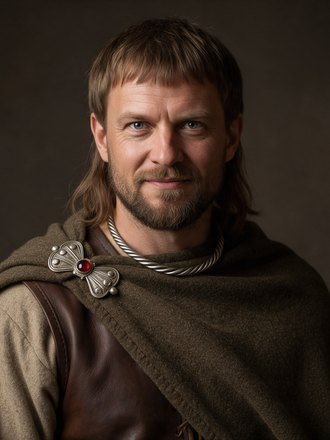
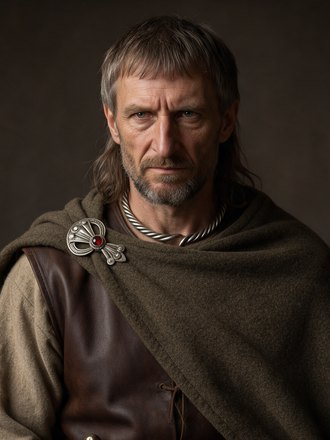
Fritigerno rifatto con un volto diverso da Alarico; ritratti ricostruiti confrontati con le immagini dei musei (Grande Ludovisi, missorio di Teodosio, dittico di Stilicone, San Vitale, lamina di Agilulfo, dinaro del califfo in piedi, monete di Hormizd II, scrigno Franks): nessuno da rifare; Ine a Ro

diff --git a/index.html b/index.html
@@ -22,11 +22,11 @@
 <link rel="preconnect" href="https://fonts.googleapis.com">
 <link rel="preconnect" href="https://fonts.gstatic.com" crossorigin>
 <link href="https://fonts.googleapis.com/css2?family=Cinzel:wght@500;600;700&family=EB+Garamond:ital,wght@0,400;0,500;0,600;1,400&display=swap" rel="stylesheet">
-<link rel="stylesheet" href="css/stile.css?v=20261123-0053">
-<link rel="stylesheet" href="css/carta.css?v=20261123-0053">
-<link rel="stylesheet" href="css/cause.css?v=20261123-0053">
-<link rel="stylesheet" href="css/atti.css?v=20261123-0053">
-<link rel="stylesheet" href="css/ritratti.css?v=20261123-0053">
+<link rel="stylesheet" href="css/stile.css?v=20261123-0057">
+<link rel="stylesheet" href="css/carta.css?v=20261123-0057">
+<link rel="stylesheet" href="css/cause.css?v=20261123-0057">
+<link rel="stylesheet" href="css/atti.css?v=20261123-0057">
+<link rel="stylesheet" href="css/ritratti.css?v=20261123-0057">
 </head>
 <body>
 <header class="testata">
@@ -167,31 +167,31 @@
   <p class="etichetta">Come è fatta questa pagina</p>
   <p>Ricostruzioni schematiche. La carta parte dalle province romane intorno al 200 d.C. e, per l'Italia, dalle regioni istituite da Augusto. La base è il Digital Atlas of the Roman Empire di Johan Åhlfeldt (università di Lund e di Göteborg), con licenza Creative Commons Attribuzione - Condividi allo stesso modo (CC BY-SA). Coste, rilievi e fiumi provengono dai dati di pubblico dominio di Natural Earth. Dove i regni successivi seguivano confini diversi, li abbiamo ridisegnati a mano usando i fiumi, i crinali e le città citati nelle fonti. Questi confini sono quindi indicativi, non rilevati. Nel novembre 2026 abbiamo rivisto il controllo delle regioni, i confini e gli spostamenti dei popoli sulla base di Bury, Ammiano, Zosimo, Eugippio e Beda e, per i confini dei singoli regni, delle relative voci di Wikipedia. Una parte delle date resta citata a memoria. Il dominio longobardo in Corsica dal 725 circa è, inoltre, un'ipotesi dei manuali priva di una testimonianza diretta; il dominio franco è documentato dall'806. Per Roma, il corso del Tevere e il tracciato delle mura provengono da OpenStreetMap (© OpenStreetMap contributors). Abbiamo ridisegnato i colli alle quote antiche sopra un rilievo misurato (SRTM) e nel modello ne abbiamo quasi raddoppiato l'altezza. Gli edifici sono al loro posto, ma schematici. Le strade seguono i tracciati antichi conservati nelle vie moderne, come via del Corso per la via Lata, l'Appia Antica e via dei Coronari. Nel Foro seguono anche le pavimentazioni antiche ancora visibili della via Sacra, dell'Argileto, del vico Tusco e del clivo Capitolino. I tratti mancanti sono disegnati a mano. Nel Foro romano e nei Fori imperiali gli edifici sono centrati sui resti archeologici. Per gli acquedotti abbiamo ricostruito percorsi e altezze, che non sono rilevati. Gli isolati sono generati dal modello e lo spopolamento dei singoli quartieri è ipotetico. L'indicatore «Occidente governato da Roma» usa le superfici misurate su questa carta. L'intero Occidente vi occupa circa 2,7 milioni di km². Per l'impero nel suo insieme, i risultati sono vicini alle stime pubblicate nel 1979 da Rein Taagepera usando l'atlante storico di Shepherd. Le province dell'atlante di Åhlfeldt coprono 4,9 milioni di km² intorno al 200, oppure 4,5 milioni escludendo Mesopotamia, Dacia e Agri Decumates. Taagepera stima 4,6 milioni per il 138, 4,5 per il 275 e 4,4 per il 390. Per la divisione del 395, invece, il confronto non torna. Taagepera parla di «due parti pressoché uguali» e assegna 2 milioni all'Occidente e 2,1 milioni all'Oriente, con un margine di 0,3 milioni per quest'ultimo. La somma è 4,1 milioni, mentre la sua stima complessiva per il 390 è 4,4. Le sue due metà sono arrotondate: sulla nostra carta l'Occidente misura 2,7 milioni di km², circa un terzo in più, e l'Oriente 1,9 milioni. Nel grafico la linea continua indica un dato misurato e quella tratteggiata una stima. I testi delle tappe, le schede dei monumenti e le didascalie degli eventi sono stati controllati sulle fonti nel novembre 2026. Le schede segnalano ciò che resta incerto o discusso.</p>
   <p class="licenze" id="licenze">Il codice si può riutilizzare secondo la licenza MIT. Per riutilizzare testi, schede, confini della carta e tabelle dei dati occorre citare la fonte e distribuire gli adattamenti con la stessa licenza (CC BY-SA 4.0). I dati topografici di Roma sono © OpenStreetMap contributors, licenza ODbL. Le immagini dei protagonisti vengono da Wikimedia Commons: autore e licenza sono indicati accanto a ciascuna. Quelle segnate «Ricostruzione» sono state generate per questa pagina a partire dalle fonti: il volto è immaginario. Le didascalie seguono le descrizioni dei file su Commons e non sono state riscontrate sulle schede dei musei. I dettagli sono nel file <a href="https://github.com/angrisanidj/caduta-impero/blob/main/LICENZA.md">LICENZA.md</a>.</p>
-                                                                        <p class="versione">Versione del 23/11/2026, ore 00:53</p>
+                                                                          <p class="versione">Versione del 23/11/2026, ore 00:57</p>
 </footer>
 
 <script src="https://cdnjs.cloudflare.com/ajax/libs/three.js/r128/three.min.js"></script>
 <script src="https://cdn.jsdelivr.net/npm/three@0.128.0/examples/js/controls/OrbitControls.js"></script>
-<script src="js/dati.js?v=20261123-0053"></script>
-<script src="js/mappa-dati.js?v=20261123-0053"></script>
-<script src="js/roma-topo.js?v=20261123-0053"></script>
-<script src="js/base.js?v=20261123-0053"></script>
-<script src="js/costruttore.js?v=20261123-0053"></script>
-<script src="js/monumenti.js?v=20261123-0053"></script>
-<script src="js/nuclei.js?v=20261123-0053"></script>
-<script src="js/mura.js?v=20261123-0053"></script>
-<script src="js/citta.js?v=20261123-0053"></script>
-<script src="js/vita.js?v=20261123-0053"></script>
-<script src="js/eventi.js?v=20261123-0053"></script>
-<script src="js/mappa.js?v=20261123-0053"></script>
-<script src="js/ritratti.js?v=20261123-0053"></script>
-<script src="js/protagonisti.js?v=20261123-0053"></script>
-<script src="js/pagina.js?v=20261123-0053"></script>
-<script src="js/scene-tappe.js?v=20261123-0053"></script>
-<script src="js/atti.js?v=20261123-0053"></script>
-<script src="js/itinerario.js?v=20261123-0053"></script>
-<script src="js/confronto.js?v=20261123-0053"></script>
-<script src="js/cause.js?v=20261123-0053"></script>
-<script src="js/condividi.js?v=20261123-0053"></script>
+<script src="js/dati.js?v=20261123-0057"></script>
+<script src="js/mappa-dati.js?v=20261123-0057"></script>
+<script src="js/roma-topo.js?v=20261123-0057"></script>
+<script src="js/base.js?v=20261123-0057"></script>
+<script src="js/costruttore.js?v=20261123-0057"></script>
+<script src="js/monumenti.js?v=20261123-0057"></script>
+<script src="js/nuclei.js?v=20261123-0057"></script>
+<script src="js/mura.js?v=20261123-0057"></script>
+<script src="js/citta.js?v=20261123-0057"></script>
+<script src="js/vita.js?v=20261123-0057"></script>
+<script src="js/eventi.js?v=20261123-0057"></script>
+<script src="js/mappa.js?v=20261123-0057"></script>
+<script src="js/ritratti.js?v=20261123-0057"></script>
+<script src="js/protagonisti.js?v=20261123-0057"></script>
+<script src="js/pagina.js?v=20261123-0057"></script>
+<script src="js/scene-tappe.js?v=20261123-0057"></script>
+<script src="js/atti.js?v=20261123-0057"></script>
+<script src="js/itinerario.js?v=20261123-0057"></script>
+<script src="js/confronto.js?v=20261123-0057"></script>
+<script src="js/cause.js?v=20261123-0057"></script>
+<script src="js/condividi.js?v=20261123-0057"></script>
 </body>
 </html>

diff --git a/js/dati.js b/js/dati.js
@@ -789,7 +789,7 @@ var SCHEDE={
   obeliscovaticano:{cosa:"Obelisco egizio senza geroglifici. Caligola lo fece portare a Roma e sistemare sul divisorio centrale del suo circo, noto come circo di Nerone.", date:[[40,"Caligola lo fa portare da Alessandria e lo colloca nel circo; in origine veniva da Eliopoli, secondo Plinio."],[333,"Il circo è ormai una necropoli; l'obelisco resta in piedi accanto alla basilica nuova, presso la rotonda di Sant'Andrea. Ci resterà fino al 1586, quando lo si porta al centro di piazza San Pietro."]]},
   campanilepietro:{cosa:"La torre delle campane all'ingresso dell'atrio di San Pietro: a Roma è la prima di cui parli una fonte.", date:[[757,"Il Liber Pontificalis attribuisce a papa Stefano II (752-757) la costruzione «sopra la basilica» di una torre in parte dorata e in parte rivestita d'argento. Vi colloca tre campane «per chiamare il clero e il popolo all'ufficio di Dio», cioè alla preghiera. Il passo manca in una parte dei manoscritti."],["dopo il 757","La stessa fonte nomina poco dopo, all'ingresso dell'atrio, la torre di Santa Maria «ad Grada», cioè ai gradini."]]},
   porticopietro:{cosa:"Un passaggio coperto permetteva ai pellegrini di raggiungere a piedi la basilica di San Pietro partendo dal ponte Elio, oggi ponte Sant'Angelo. Sulla carta attuale il ponte dista poco meno di un chilometro dalla scalinata della basilica. La lunghezza esatta dell'antico portico rimane incerta.", date:[["fine del IV secolo","Il portico risale probabilmente a questo periodo. Altri studiosi ne datano la costruzione intorno all'anno 500."],[537,"Prima notizia sicura: la cita Procopio durante l'assedio."],[780,"Restaurata da papa Adriano I, che ne rifà le fondazioni lungo la riva del Tevere con oltre dodicimila blocchi di tufo."]]},
-  scholae:{cosa:"Ospizio dei pellegrini anglosassoni: alloggio, chiesa e cimitero, verso il fiume, dove oggi è Santo Spirito in Sassia.", date:[[727,"Una tradizione più tarda la attribuisce al re Ine del Wessex, venuto a Roma verso il 726."],[799,"La prima testimonianza sicura della schola riguarda il ritorno di Leone III a Roma. Ad accoglierlo ci sono le comunità dei Sassoni, dei Franchi, dei Frisoni e dei Longobardi. Dalle scholae viene il nome del quartiere, «Borgo», dal germanico burg, che compare nelle fonti durante il pontificato di Pasquale I (817-824)."],[847,"Un incendio brucia le case di Sassoni e Longobardi e arriva al portico della basilica; un altro, sotto Pasquale I, aveva già distrutto il borgo dei Sassoni."]]},
+  scholae:{cosa:"Ospizio dei pellegrini anglosassoni: alloggio, chiesa e cimitero, verso il fiume, dove oggi è Santo Spirito in Sassia.", date:[[727,"Una tradizione più tarda la attribuisce al re Ine del Wessex, venuto a Roma fra il 726 e il 728: dai dati di Beda (trentasette anni di regno) viene il 725-726, la Cronaca anglosassone, nell'edizione di Ingram, dice 728."],[799,"La prima testimonianza sicura della schola riguarda il ritorno di Leone III a Roma. Ad accoglierlo ci sono le comunità dei Sassoni, dei Franchi, dei Frisoni e dei Longobardi. Dalle scholae viene il nome del quartiere, «Borgo», dal germanico burg, che compare nelle fonti durante il pontificato di Pasquale I (817-824)."],[847,"Un incendio brucia le case di Sassoni e Longobardi e arriva al portico della basilica; un altro, sotto Pasquale I, aveva già distrutto il borgo dei Sassoni."]]},
   scholae2:{cosa:"Ciascuna comunità, chiamata schola, offriva ai pellegrini dello stesso popolo un alloggio, una chiesa e un cimitero.", date:[[799,"Prima notizia certa: Franchi, Frisoni e Longobardi, con i Sassoni, accolgono papa Leone III al suo ritorno. Quando siano nate non si sa. Il sito di quella dei Longobardi è discusso."],[847,"L'incendio del Borgo brucia anche le case dei Longobardi."]]},
   leonine:{cosa:"Cinta attorno a San Pietro e al Borgo: circa tre chilometri, con decine di torri, costruita in buona parte con blocchi tolti a edifici antichi.", date:[[846,"Il sacco saraceno mostra che le basiliche fuori le mura sono indifese."],[848,"Papa Leone IV avvia i lavori nel secondo anno di pontificato."],[852,"Cerimonia conclusiva il 27 giugno: nasce la «città leonina»."]]},
   venere:{cosa:"Il tempio più grande di Roma, fra il Foro e il Colosseo.", date:[[307,"Ricostruito da Massenzio dopo un incendio."],[392,"Nella ricostruzione, dal 392 il tempio di Venere e Roma è ancora in piedi, ma al suo interno non si celebrano più riti. La data in cui il culto cessò davvero è incerta."],[630,"Papa Onorio I (625-638), con il permesso dell'imperatore Eraclio, toglie le tegole di bronzo del «tempio di Roma» per coprire San Pietro. Per i più è questo tempio; secondo altri la vicina basilica di Massenzio."],[850,"Papa Leone IV costruisce Santa Maria Nova fra le sue rovine."]]},
@@ -1018,7 +1018,7 @@ var PROTAGONISTI={
  711:[["Tariq ibn Ziyad","","Comandante berbero, attraversa lo stretto di Gibilterra nel 711."],
       ["Musa ibn Nusayr","","Governatore arabo dell'Africa settentrionale, raggiunge Tariq nella penisola iberica nel 712."],
       ["Rodrigo","","L'ultimo re visigoto a regnare da Toledo: scompare nella battaglia."]],
- 727:[["Ine","re del Wessex dal 688 circa al 726","Rinuncia al trono e parte per Roma, dove trascorre il resto della vita."],
+ 727:[["Ine","re del Wessex dal 688 circa al 726 o al 728","Rinuncia al trono e parte per Roma, dove trascorre il resto della vita."],
       ["Gregorio II","papa dal 715 al 731","Romano di nascita: si oppone alle tasse e agli editti dell'imperatore Leone III."],
       ["Liutprando","re dei Longobardi dal 712 al 744","Nel 728 dona al papa il castello di Sutri."]],
  756:[["Astolfo","re dei Longobardi dal 749 al 756","Ha preso Ravenna nel 751; muore nel 756."],

diff --git a/src/immagini/ricostruzioni.md b/src/immagini/ricostruzioni.md
@@ -288,3 +288,18 @@ Negative: le parole comuni, più `curved scimitar, Ottoman turban, Mamluk, henna
 Photorealistic half-length portrait of Ine, king of the West Saxons, in 727 AD as he gives up his throne to travel to Rome as a pilgrim, a grave, weathered man of about 60, grey-blond hair falling to the neck, a full grey beard, calm resolute eyes. He wears a loose long-sleeved tunic of off-white linen with broad tablet-woven bands of red, yellow and dark blue at the neck and cuffs, and a heavy travelling cloak of dark brown wool fastened on the right shoulder with a round gold brooch set with flat red garnets. No crown, no helmet, no weapons. Plain dark charcoal-brown studio backdrop, softly mottled, no objects. Natural side light from the left as from a window. Looks like a photograph of a real person in historically accurate early 8th-century Anglo-Saxon costume, shallow depth of field, 85mm lens.
 ```
 Negative: le parole comuni, più `crown, Sutton Hoo helmet, Viking, horns, fur, scallop shell, pilgrim staff, monk habit, friar`.
+
+## Controllo sulle immagini dei musei (23 novembre 2026, dopo la generazione)
+
+Le immagini degli oggetti citati «a memoria» sono state guardate su Wikimedia Commons e confrontate con i ritratti scelti:
+- Sarcofago Grande Ludovisi («Grande Ludovisi sarcophagus.jpg»): i barbari hanno barba e capelli folti, tuniche e brache. Cniva è coerente; i capelli scolpiti sono più ricci, convenzione dello scultore.
+- Missorio di Teodosio («Missorium van Theodosius I Detail, GD000327.jpg»): le guardie germaniche hanno capelli lunghi fino alla nuca, collare ritorto, nessuna barba. Il collare di Fritigerno e di Alarico torna; la barba è una scelta, come per i Goti di Sinesio e di Sidonio.
+- Dittico di Stilicone («Diptych of Stilicho.jpg»): tunica decorata, clamide con fibula a balestra, cintura con la spada, barba e capelli corti. Corrisponde ad Arbogaste e ad Alarico.
+- Mosaico di Giustiniano a San Vitale: clamide bianca fermata sulla spalla destra, tunica a strisce, capelli corti con la frangia. Corrisponde a Procopio, senza il riquadro di porpora (scelta della scheda: il suo rango nel 542 è incerto).
+- Lamina di Agilulfo: figure troppo piccole per aggiungere dettagli ad Alboino; vale Paolo Diacono.
+- Dinaro del «califfo in piedi» (695): veste lunga, copricapo di stoffa che scende, barba lunga, spada nel fodero. Corrisponde a Musa.
+- Monete di Hormizd II: corona col globo e barba a punta per il re; Ormisda, che re non era, ha il berretto senza corona (scelta della scheda).
+- Scrigno Franks: tuniche al ginocchio, mantelli, cappucci. Corrisponde a Ine.
+Nessun ritratto è stato rifatto per questo controllo. Fritigerno è stato rifatto per un'altra ragione: nella prima generazione aveva quasi lo stesso volto di Alarico.
+
+Ine: Beda (Storia ecclesiastica V 7, letto) non dà l'anno della partenza; dai suoi dati (trentasette anni di regno, cominciati quando Cedvalla parte per Roma nel 688; papa Gregorio II) viene il 725-726. La Cronaca anglosassone, nell'edizione composita di Ingram (avalon.law.yale.edu), lo mette nel 728. In pagina: «dal 688 circa al 726 o al 728».

diff --git a/src/testi/scritte.md b/src/testi/scritte.md
@@ -1,6 +1,6 @@
 # Come finisce un impero · tutte le scritte
 
-Generato da `src/testi.mjs` il 23/11/2026, 00:53:40.
+Generato da `src/testi.mjs` il 23/11/2026, 00:57:25.
 
 **Come correggere.** Ogni scritta sta su una riga e comincia con la sua sigla fra parentesi quadre. Cambia liberamente il testo dopo la sigla; non toccare la sigla e non unire due righe.
 Le citazioni («Voci di allora», citazioni degli storici) sono traduzioni da fonti lette: lì conviene ritoccare solo l'italiano, non il contenuto.
@@ -103,7 +103,7 @@ Se una riga va tolta del tutto, lascia la sigla e scrivi `TOGLIERE`. Per un dubb
 
 [pagina.44] Il codice si può riutilizzare secondo la licenza MIT. Per riutilizzare testi, schede, confini della carta e tabelle dei dati occorre citare la fonte e distribuire gli adattamenti con la stessa licenza (CC BY-SA 4.0). I dati topografici di Roma sono © OpenStreetMap contributors, licenza ODbL. Le immagini dei protagonisti vengono da Wikimedia Commons: autore e licenza sono indicati accanto a ciascuna. Quelle segnate «Ricostruzione» sono state generate per questa pagina a partire dalle fonti: il volto è immaginario. Le didascalie seguono le descrizioni dei file su Commons e non sono state riscontrate sulle schede dei musei. I dettagli sono nel file LICENZA.md .
 
-[pagina.45] Versione del 23/11/2026, ore 00:47
+[pagina.45] Versione del 23/11/2026, ore 00:53
 
 
 ## 2. Gli atti
@@ -1415,7 +1415,7 @@ Se una riga va tolta del tutto, lascia la sigla e scrivi `TOGLIERE`. Per un dubb
 
 [T44-727.chi1.nome] Ine
 
-[T44-727.chi1.date] re del Wessex dal 688 circa al 726
+[T44-727.chi1.date] re del Wessex dal 688 circa al 726 o al 728
 
 [T44-727.chi1.riga] Rinuncia al trono e parte per Roma, dove trascorre il resto della vita.
 
@@ -2513,7 +2513,7 @@ Se una riga va tolta del tutto, lascia la sigla e scrivi `TOGLIERE`. Per un dubb
 
 [scheda.scholae.cosa] Ospizio dei pellegrini anglosassoni: alloggio, chiesa e cimitero, verso il fiume, dove oggi è Santo Spirito in Sassia.
 
-[scheda.scholae.data1-727] Una tradizione più tarda la attribuisce al re Ine del Wessex, venuto a Roma verso il 726.
+[scheda.scholae.data1-727] Una tradizione più tarda la attribuisce al re Ine del Wessex, venuto a Roma fra il 726 e il 728: dai dati di Beda (trentasette anni di regno) viene il 725-726, la Cronaca anglosassone, nell'edizione di Ingram, dice 728.
 
 [scheda.scholae.data2-799] La prima testimonianza sicura della schola riguarda il ritorno di Leone III a Roma. Ad accoglierlo ci sono le comunità dei Sassoni, dei Franchi, dei Frisoni e dei Longobardi. Dalle scholae viene il nome del quartiere, «Borgo», dal germanico burg, che compare nelle fonti durante il pontificato di Pasquale I (817-824).
 
